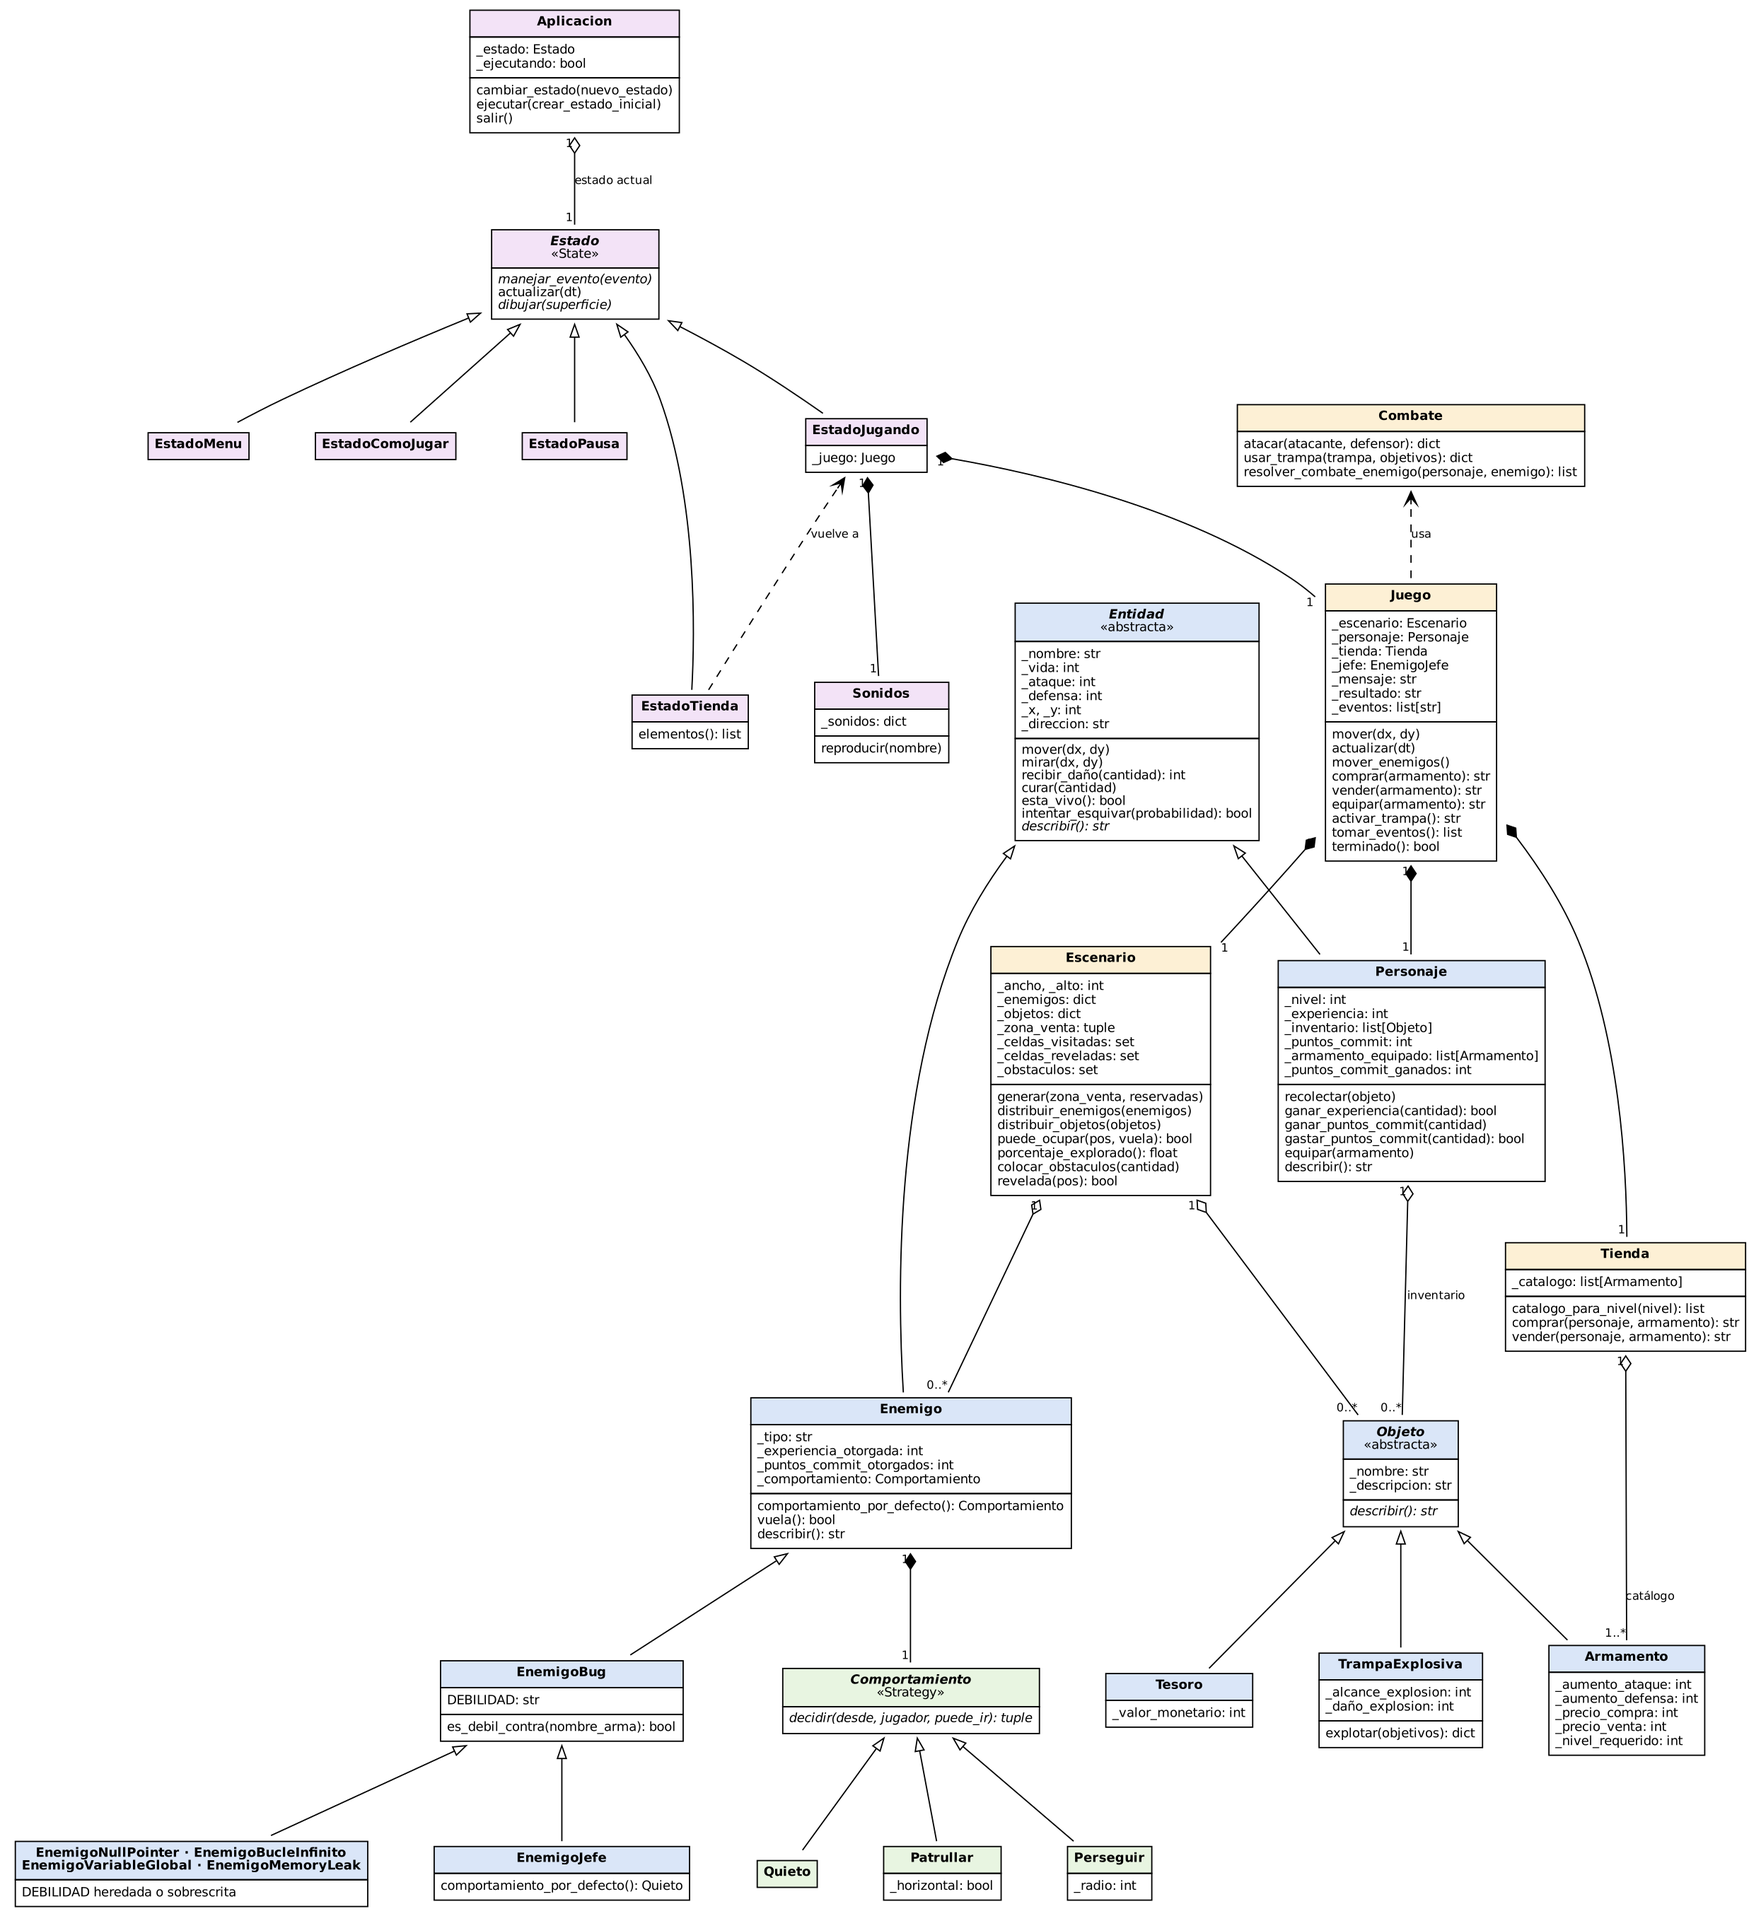
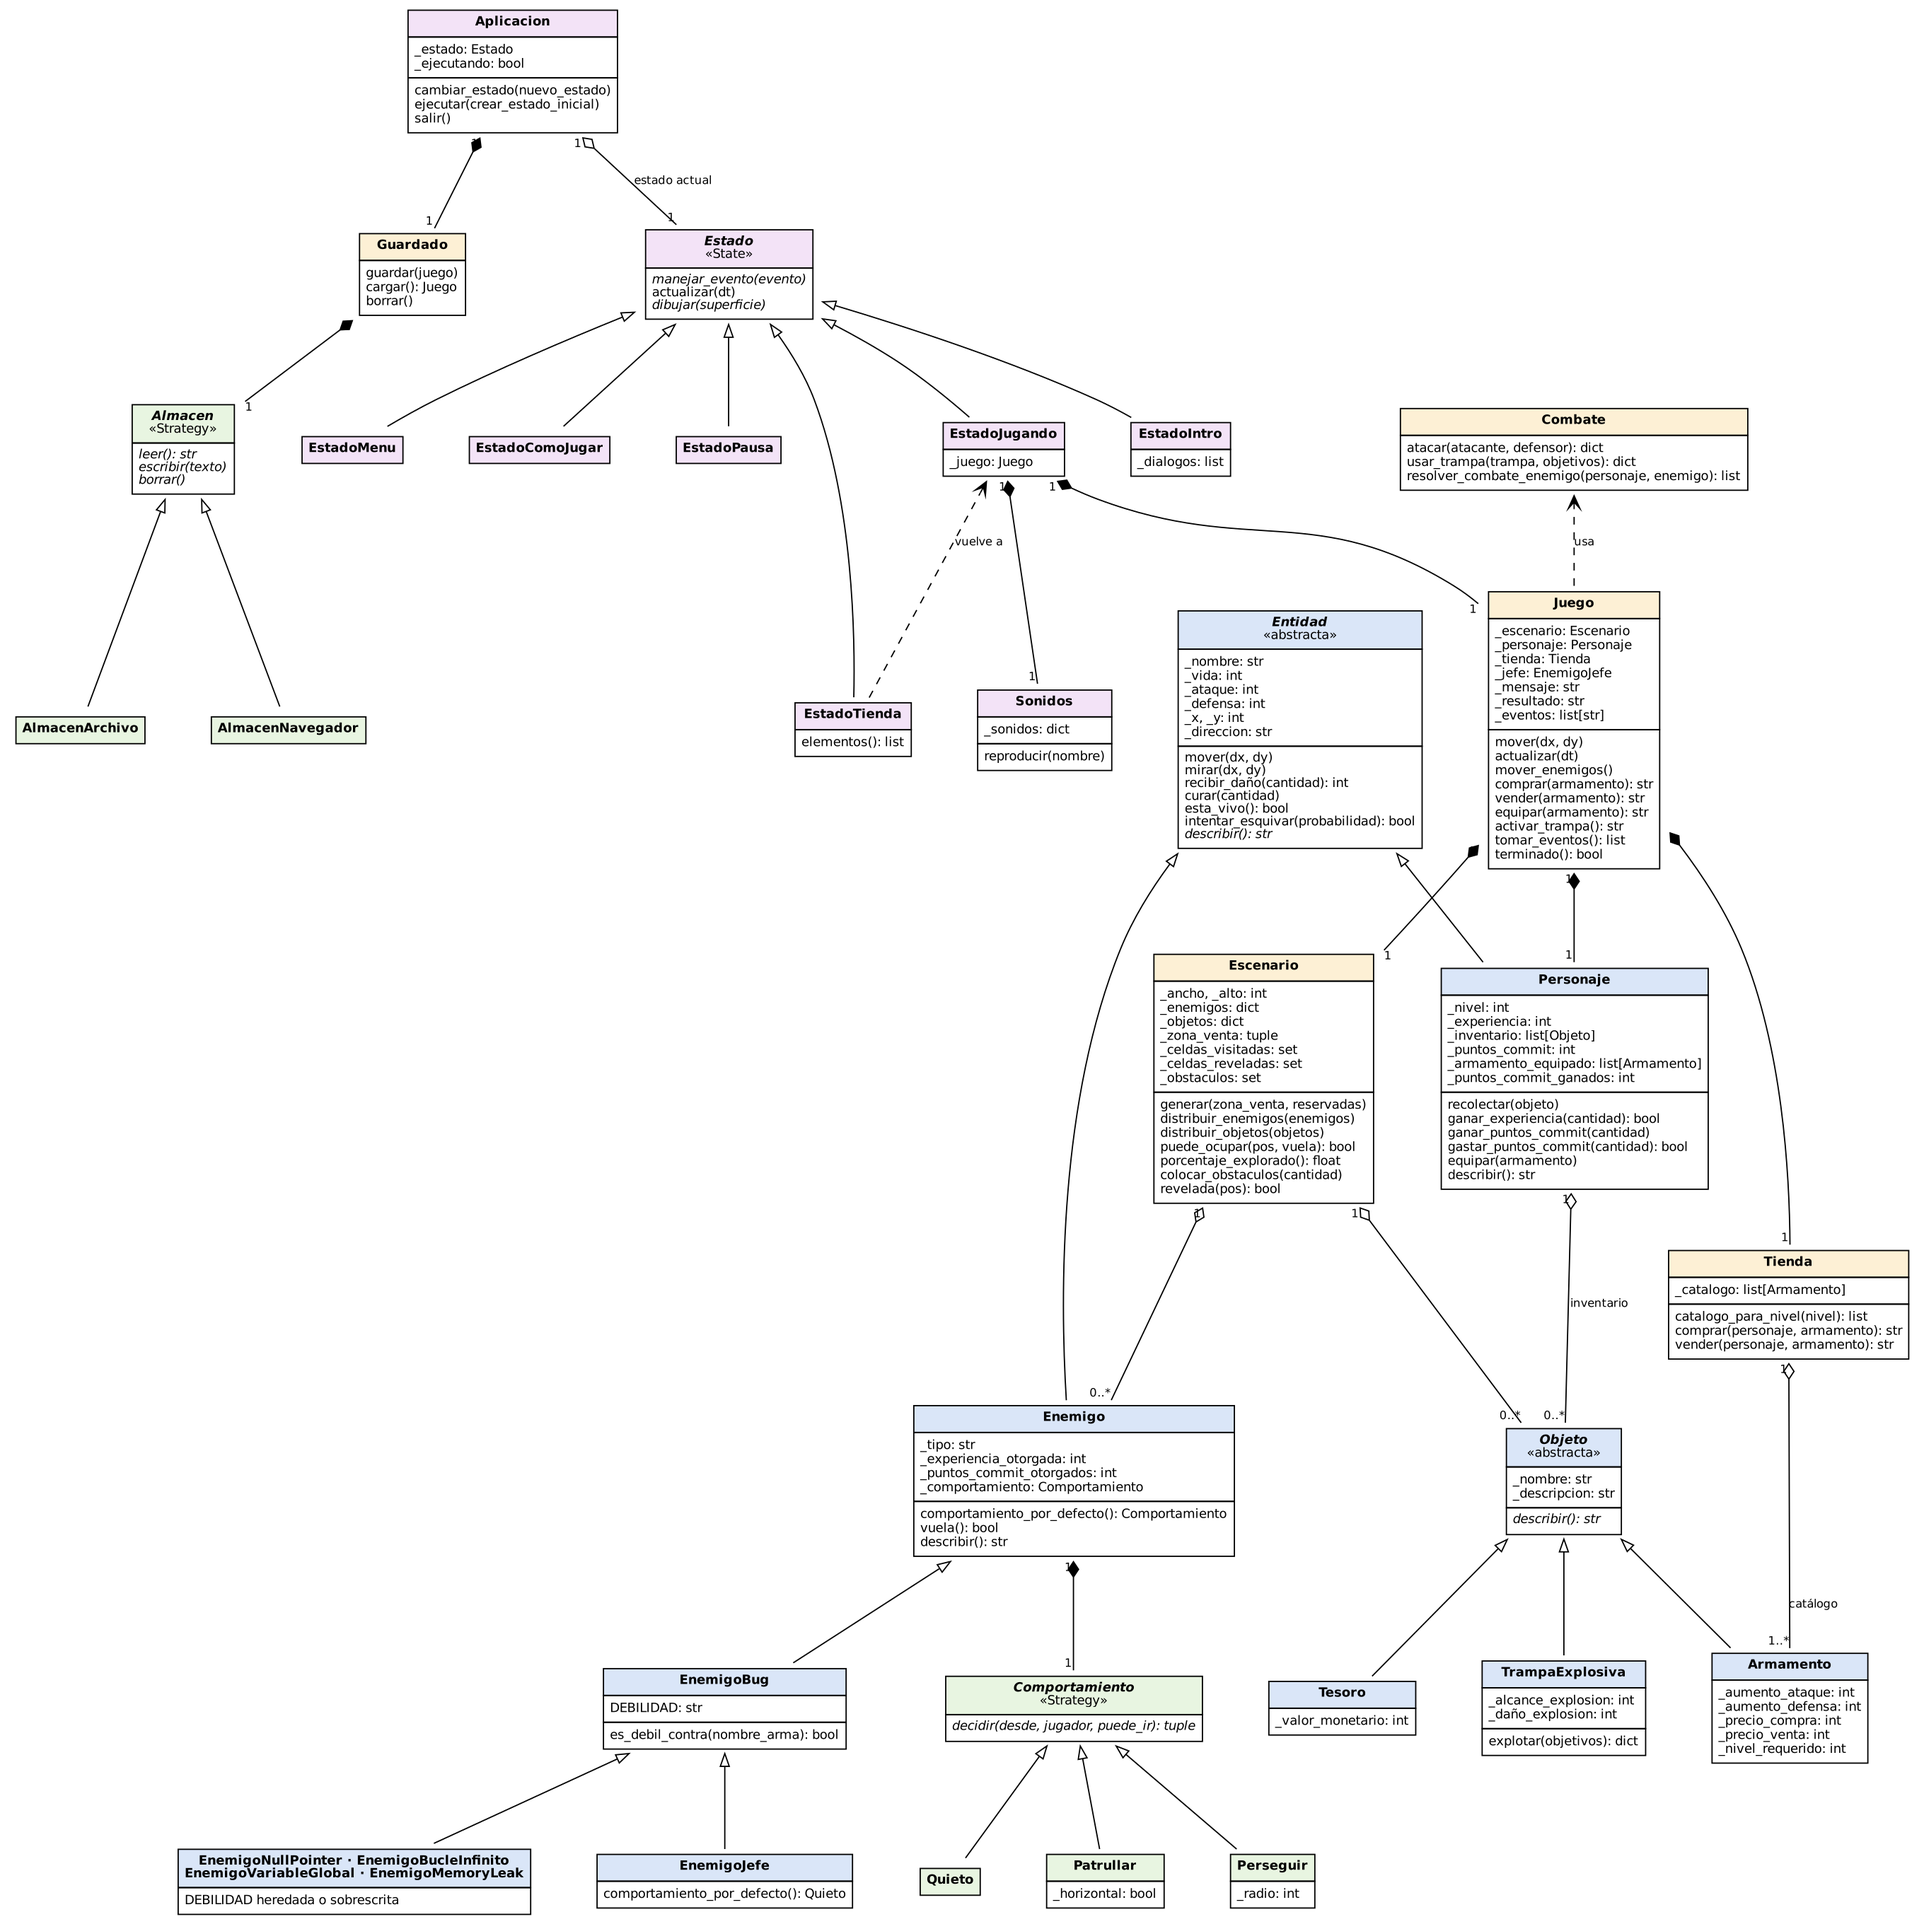
diagrama y README: EstadoIntro, Guardado y almacenes (Strategy)
Claude-Session: https://claude.ai/code/session_012rGapGVKsZqid5Cvb7fXWu

diff --git a/README.md b/README.md
@@ -179,7 +179,7 @@ Estos requerimientos amplían los anteriores con la historia y el mundo descrito
 | R8.1 Interfaz | ✅ | HUD con vida, nivel, commits e inventario |
 | R8.2 Retroalimentación | ✅ | Mensajes en el HUD y sonidos generados por código (`ui/sonido.py`) |
 | R9.1 Pantalla principal | ✅ | Menú con Nueva partida, Cómo jugar y Salir |
-| R9.2 Estados del juego | 🟡 | Menú, jugando, pausa, tienda y fin; falta el estado minijuego |
+| R9.2 Estados del juego | 🟡 | Menú, intro, jugando, pausa, tienda y fin; falta el estado minijuego |
 | R10.1 Movimiento fluido | ✅ | Caminata animada, dirección y tecla sostenida |
 | R10.2 Enemigos con comportamiento | ✅ | Patrullar, perseguir y quieto (patrón Strategy) |
 | R11.1 Mundo por zonas | ⬜ | |
@@ -221,7 +221,7 @@ Estos requerimientos amplían los anteriores con la historia y el mundo descrito
 
 #### Patrones de diseño
 
-- **State** (`ui/estados/`): cada pantalla (menú, cómo jugar, jugando, pausa, tienda) es una subclase de `Estado`. La `Aplicacion` solo le delega eventos, actualización y dibujo, sin saber en qué pantalla está.
+- **State** (`ui/estados/`): cada pantalla (menú, intro, cómo jugar, jugando, pausa, tienda) es una subclase de `Estado`. La `Aplicacion` solo le delega eventos, actualización y dibujo, sin saber en qué pantalla está.
 - **Strategy** (`models/comportamiento.py`): cada enemigo tiene un `Comportamiento` intercambiable (`Patrullar`, `Perseguir`, `Quieto`). Los terrestres patrullan, los voladores persiguen y el jefe sobrescribe `comportamiento_por_defecto()` para quedarse quieto.
 
 #### Diagrama de clases
